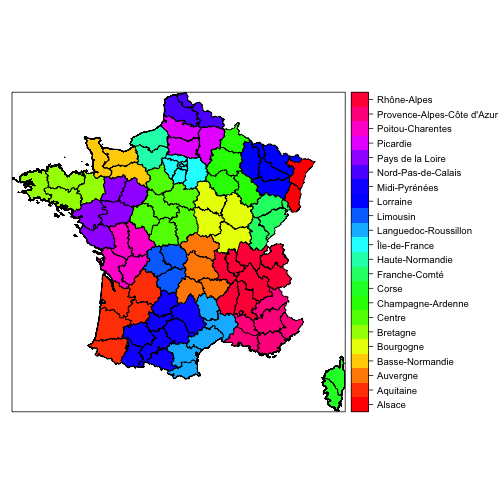
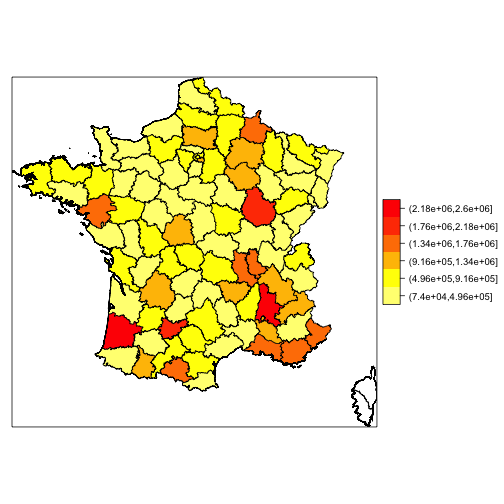
improve map post

diff --git a/_posts/2015-03-03-france_map.md b/_posts/2015-03-03-france_map.md
@@ -32,11 +32,8 @@ download.file(
 ```
 
 
-```
-## NULL
-```
 
-The file is a ugly XLS, then we will use the package _xlsx_ to open it.
+The file is an ugly XLS, then we will use the package _xlsx_ to open it.
 
 
 ```r
@@ -48,13 +45,6 @@ raw_db <- read.xlsx(
     header = FALSE, 
     colClasses = "character"
     )
-```
-
-```
-## Error in .jcall("RJavaTools", "Ljava/lang/Object;", "invokeMethod", cl, : java.lang.IllegalArgumentException: Your InputStream was neither an OLE2 stream, nor an OOXML stream
-```
-
-```r
 dim(raw_db)
 ```
 
@@ -280,17 +270,9 @@ Finaly we have a clean data frame
 
 ## Find a map of France
 
-
-```r
-library(sp)
-```
-
 According to this [post](http://web.stanford.edu/~cengel/cgi-bin/anthrospace/download-global-administrative-areas-as-rdata-files), maps can be downloaded from [Global Administrative Areas (GADM)](http://gadm.org).
 
 
-```
-## NULL
-```
 
 
 ```r
@@ -322,7 +304,7 @@ library(sp)
 plot(gadm)
 ```
 
-<img src="/assets/france_map/unnamed-chunk-9-1.png" title="plot of chunk unnamed-chunk-9" alt="plot of chunk unnamed-chunk-9" style="display: block; margin: auto;" />
+<img src="/assets/france_map/unnamed-chunk-8-1.png" title="plot of chunk unnamed-chunk-8" alt="plot of chunk unnamed-chunk-8" style="display: block; margin: auto;" />
 
 ## Merge map data and pop data
 
@@ -345,20 +327,27 @@ str(gadm, max.level = 2)
 
 
 
-
 ```r
 gadm$regions <- as.factor(gadm@data$NAME_1)
 colorss <- rainbow(length(levels(gadm$regions)))
 spplot(gadm, "regions", col.regions = colorss)
 ```
 
-<img src="/assets/france_map/unnamed-chunk-11-1.png" title="plot of chunk unnamed-chunk-11" alt="plot of chunk unnamed-chunk-11" style="display: block; margin: auto;" />
+<img src="/assets/france_map/unnamed-chunk-9-1.png" title="plot of chunk unnamed-chunk-9" alt="plot of chunk unnamed-chunk-9" style="display: block; margin: auto;" />
 
 Now, do the same but with popultation
 
 
 ```r
-dbs <- merge(gadm@data, db, by.x = "ID_2", by.y = "dept", all.x = TRUE, all.y = FALSE)
+dbs <- merge(
+    x = gadm@data, 
+    y = db, 
+    by.x = "ID_2",
+    by.y = "dept", 
+    all.x = TRUE,
+    all.y = FALSE
+    )
+
 # Discretize
 
 gadm$pop <- cut(x = dbs$pop, breaks = 6)
@@ -367,7 +356,38 @@ color_pop <- heat.colors(6)
 spplot(gadm, "pop", col.regions = color_pop)
 ```
 
-<img src="/assets/france_map/unnamed-chunk-12-1.png" title="plot of chunk unnamed-chunk-12" alt="plot of chunk unnamed-chunk-12" style="display: block; margin: auto;" />
+<img src="/assets/france_map/unnamed-chunk-10-1.png" title="plot of chunk unnamed-chunk-10" alt="plot of chunk unnamed-chunk-10" style="display: block; margin: auto;" />
 
-Not bad but there is some department missing.
+Not bad but there is some department missing. To reasons :
 
+
+1. The _id_ of the department in the INSEE data are with two digits and represented by _01_, _02_ ... Then we have to convert it in integer
+2. Corsica have _id_s in INSEE _2a_ and _2b_ but 96 and 97 in map data.
+
+
+```r
+# Change for Corsica
+db$dept[db$dept == "2a"] <- 96 
+db$dept[db$dept == "2b"] <- 97 
+db$dept <- as.integer(db$dept)
+
+# Redo previous step
+gadm$pop <- NULL
+dbs <- merge(
+    x = gadm@data, 
+    y = db, 
+    by.x = "ID_2",
+    by.y = "dept", 
+    all.x = TRUE,
+    all.y = FALSE
+    )
+
+# Discretize
+
+gadm$pop <- cut(x = dbs$pop, breaks = 6)
+color_pop <- rev(heat.colors(6))
+
+spplot(gadm, "pop", col.regions = color_pop)
+```
+
+<img src="/assets/france_map/unnamed-chunk-11-1.png" title="plot of chunk unnamed-chunk-11" alt="plot of chunk unnamed-chunk-11" style="display: block; margin: auto;" />
